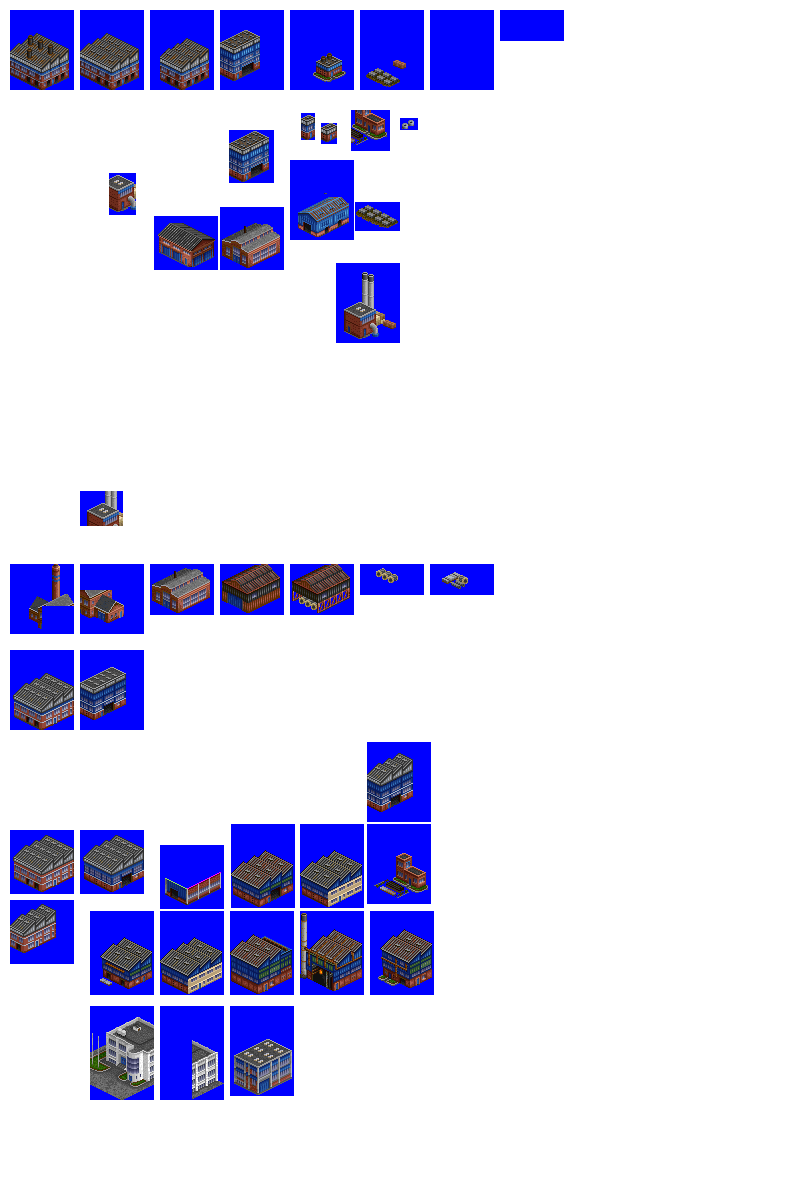
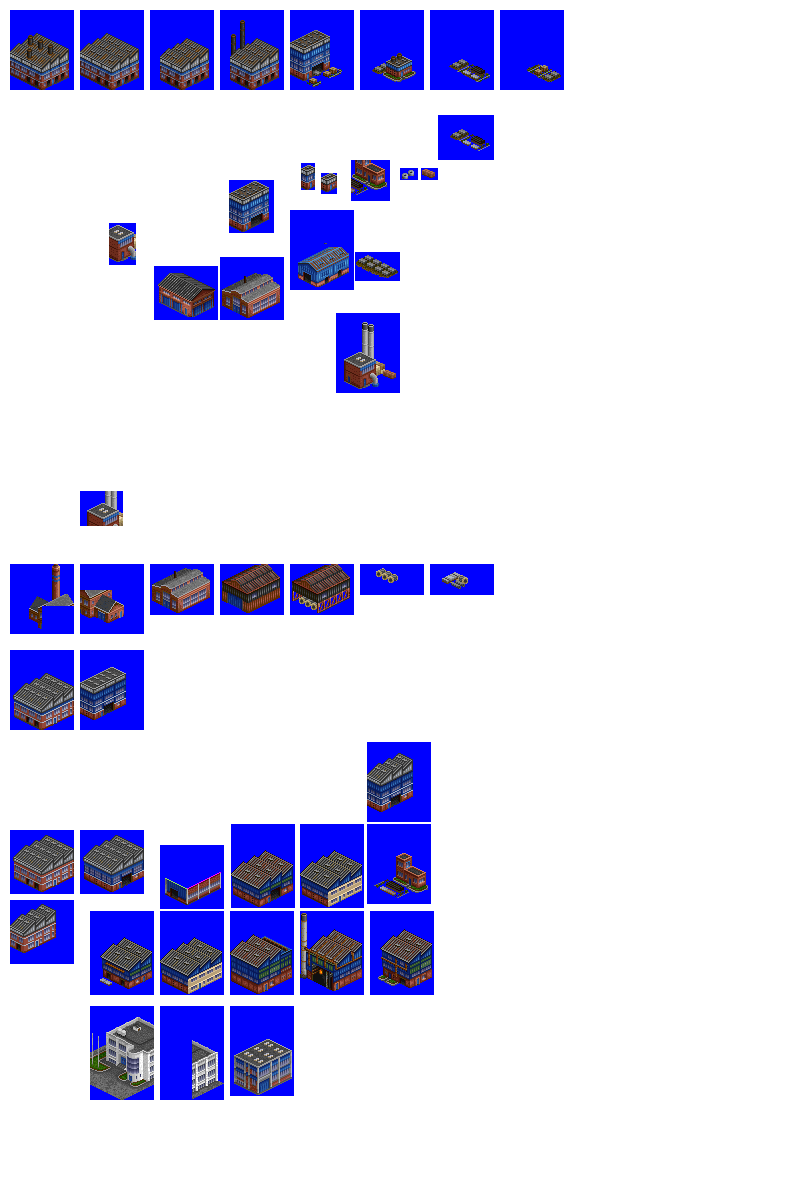
Change: improved sprites for metal fabricator

Changed region(s): [[0.125, 0.0, 0.625, 0.3392], [0.625, 0.0308, 0.7188, 0.0925], [0.5625, 0.0308, 0.5938, 0.0617]]

diff --git a/src/industries/metal_fabricator.py b/src/industries/metal_fabricator.py
@@ -56,7 +56,7 @@ spriteset_ground = industry.add_spriteset(
     type="asphalt",
 )
 spriteset_ground_overlay = industry.add_spriteset(type="empty")
-spriteset_shed_1 = industry.add_spriteset(
+spriteset_shed_1_with_chimneys = industry.add_spriteset(
     sprites=[(10, 10, 64, 80, -31, -50)],
 )
 spriteset_shed_2 = industry.add_spriteset(
@@ -65,33 +65,30 @@ spriteset_shed_2 = industry.add_spriteset(
 spriteset_shed_3_half = industry.add_spriteset(
     sprites=[(150, 10, 64, 80, -31, -50)],
 )
-spriteset_shed_tall = industry.add_spriteset(
+spriteset_shed_4_half_with_chimneys = industry.add_spriteset(
     sprites=[(220, 10, 64, 80, -31, -50)],
 )
-spriteset_tanks = industry.add_spriteset(
+spriteset_shed_tall = industry.add_spriteset(
     sprites=[(290, 10, 64, 80, -31, -50)],
 )
-spriteset_office = industry.add_spriteset(
+spriteset_small_building = industry.add_spriteset(
     sprites=[(360, 10, 64, 80, -31, -50)],
+)
+spriteset_greeble_1 = industry.add_spriteset(
+    sprites=[(430, 10, 64, 80, -31, -50)],
+)
+spriteset_greeble_2 = industry.add_spriteset(
+    sprites=[(500, 10, 64, 80, -31, -50)],
 )
 
 industry.add_spritelayout(
-    id="hardware_factory_spritelayout_empty",
+    id="hardware_factory_spritelayout_shed_1_with_chimneys",
     tile="hardware_factory_tile_1",
     ground_sprite=spriteset_ground,
     ground_overlay=spriteset_ground_overlay,
-    building_sprites=[],
-    fences=[],
-    add_to_object_num=1,
-)
-industry.add_spritelayout(
-    id="hardware_factory_spritelayout_shed_1",
-    tile="hardware_factory_tile_1",
-    ground_sprite=spriteset_ground,
-    ground_overlay=spriteset_ground_overlay,
-    building_sprites=[spriteset_shed_1],
+    building_sprites=[spriteset_shed_1_with_chimneys],
     fences=["ne"],
-    add_to_object_num=2,
+    add_to_object_num=1,
 )
 industry.add_spritelayout(
     id="hardware_factory_spritelayout_shed_2",
@@ -100,7 +97,7 @@ industry.add_spritelayout(
     ground_overlay=spriteset_ground_overlay,
     building_sprites=[spriteset_shed_2],
     fences=["ne"],
-    add_to_object_num=3,
+    add_to_object_num=2,
 )
 industry.add_spritelayout(
     id="hardware_factory_spritelayout_shed_3_half",
@@ -108,6 +105,15 @@ industry.add_spritelayout(
     ground_sprite=spriteset_ground,
     ground_overlay=spriteset_ground_overlay,
     building_sprites=[spriteset_shed_3_half],
+    fences=["nw", "ne"],
+    add_to_object_num=3,
+)
+industry.add_spritelayout(
+    id="hardware_factory_spritelayout_shed_4_half_with_chimneys",
+    tile="hardware_factory_tile_1",
+    ground_sprite=spriteset_ground,
+    ground_overlay=spriteset_ground_overlay,
+    building_sprites=[spriteset_shed_4_half_with_chimneys],
     fences=["nw", "ne"],
     add_to_object_num=4,
 )
@@ -121,22 +127,31 @@ industry.add_spritelayout(
     add_to_object_num=5,
 )
 industry.add_spritelayout(
-    id="hardware_factory_spritelayout_office",
+    id="hardware_factory_spritelayout_small_building",
     tile="hardware_factory_tile_1",
     ground_sprite=spriteset_ground,
     ground_overlay=spriteset_ground_overlay,
-    building_sprites=[spriteset_office],
-    fences=["nw", "ne", "se", "sw"],
+    building_sprites=[spriteset_small_building],
+    fences=["nw", "ne", "sw"],
     add_to_object_num=6,
 )
 industry.add_spritelayout(
-    id="hardware_factory_spritelayout_tanks",
+    id="hardware_factory_spritelayout_greeble_1",
     tile="hardware_factory_tile_1",
     ground_sprite=spriteset_ground,
     ground_overlay=spriteset_ground_overlay,
-    building_sprites=[spriteset_tanks],
-    fences=["nw", "ne", "sw"],
+    building_sprites=[spriteset_greeble_1],
+    fences=["nw", "ne", "se", "sw"],
     add_to_object_num=7,
+)
+industry.add_spritelayout(
+    id="hardware_factory_spritelayout_greeble_2",
+    tile="hardware_factory_tile_1",
+    ground_sprite=spriteset_ground,
+    ground_overlay=spriteset_ground_overlay,
+    building_sprites=[spriteset_greeble_2],
+    fences=["nw", "ne"],
+    add_to_object_num=8,
 )
 
 # this industry needs outpost layout as there are lots of cargos
@@ -144,35 +159,35 @@ industry.add_industry_outpost_layout(
     id="hardware_factory_industry_outpost_layout_1",
     layout=[
         # test outpost layout
-        (0, 0, "hardware_factory_spritelayout_shed_3_half"),
-        (0, 1, "hardware_factory_spritelayout_shed_1"),
-        (0, 2, "hardware_factory_spritelayout_tanks"),
+        (0, 0, "hardware_factory_spritelayout_shed_4_half_with_chimneys"),
+        (0, 1, "hardware_factory_spritelayout_shed_1_with_chimneys"),
+        (0, 2, "hardware_factory_spritelayout_small_building"),
         (1, 0, "hardware_factory_spritelayout_shed_3_half"),
         (1, 1, "hardware_factory_spritelayout_shed_tall"),
-        (1, 2, "hardware_factory_spritelayout_office"),
+        (1, 2, "hardware_factory_spritelayout_greeble_1"),
     ],
 )
 
 industry.add_industry_layout(
     id="hardware_factory_industry_layout_1",
     layout=[
-        (0, 0, "hardware_factory_spritelayout_shed_3_half"),
-        (0, 1, "hardware_factory_spritelayout_shed_1"),
-        (0, 2, "hardware_factory_spritelayout_shed_1"),
+        (0, 0, "hardware_factory_spritelayout_shed_4_half_with_chimneys"),
+        (0, 1, "hardware_factory_spritelayout_shed_1_with_chimneys"),
+        (0, 2, "hardware_factory_spritelayout_shed_1_with_chimneys"),
         (0, 3, "hardware_factory_spritelayout_shed_tall"),
-        (0, 4, "hardware_factory_spritelayout_shed_3_half"),
-        (0, 5, "hardware_factory_spritelayout_shed_1"),
+        (0, 4, "hardware_factory_spritelayout_shed_4_half_with_chimneys"),
+        (0, 5, "hardware_factory_spritelayout_shed_1_with_chimneys"),
         (1, 0, "hardware_factory_spritelayout_shed_3_half"),
-        (1, 1, "hardware_factory_spritelayout_shed_1"),
-        (1, 2, "hardware_factory_spritelayout_office"),
-        (1, 3, "hardware_factory_spritelayout_empty"),
+        (1, 1, "hardware_factory_spritelayout_shed_1_with_chimneys"),
+        (1, 2, "hardware_factory_spritelayout_greeble_1"),
+        (1, 3, "hardware_factory_spritelayout_greeble_1"),
         (1, 4, "hardware_factory_spritelayout_shed_3_half"),
         (1, 5, "hardware_factory_spritelayout_shed_tall"),
         (2, 0, "hardware_factory_spritelayout_shed_3_half"),
-        (2, 1, "hardware_factory_spritelayout_shed_1"),
+        (2, 1, "hardware_factory_spritelayout_shed_1_with_chimneys"),
         (2, 2, "hardware_factory_spritelayout_shed_tall"),
-        (2, 3, "hardware_factory_spritelayout_empty"),
-        (2, 4, "hardware_factory_spritelayout_office"),
-        (2, 5, "hardware_factory_spritelayout_tanks"),
+        (2, 3, "hardware_factory_spritelayout_greeble_2"),
+        (2, 4, "hardware_factory_spritelayout_greeble_1"),
+        (2, 5, "hardware_factory_spritelayout_small_building"),
     ],
 )
